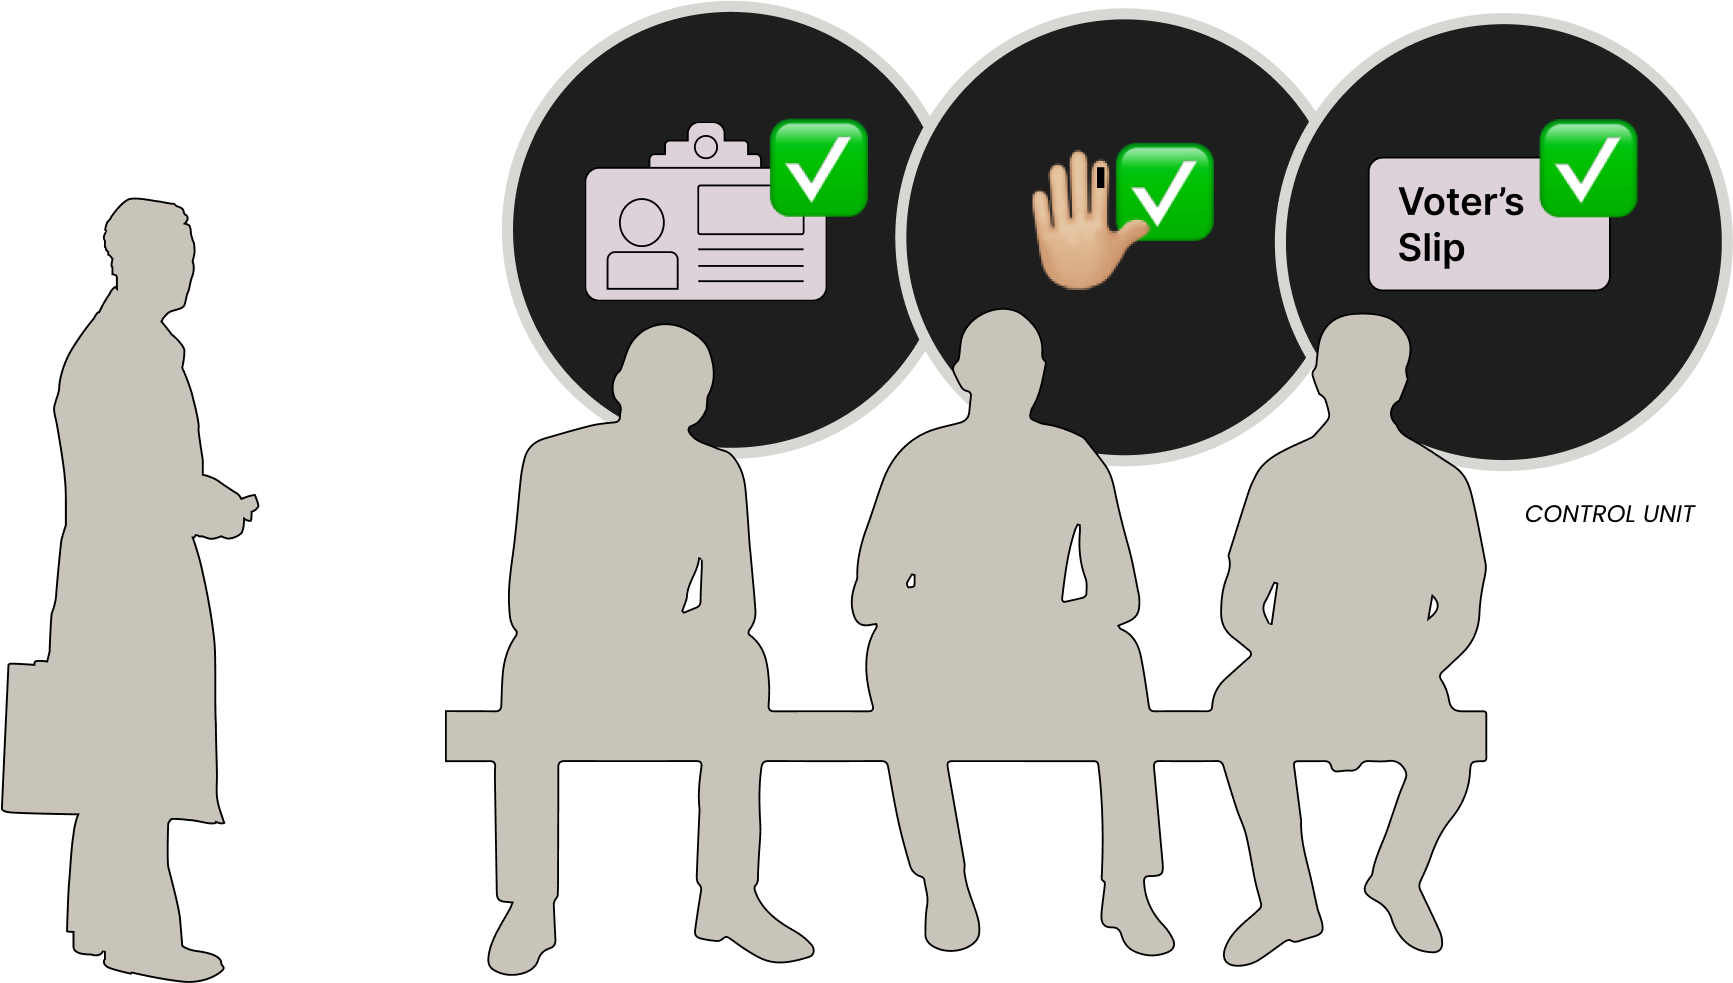
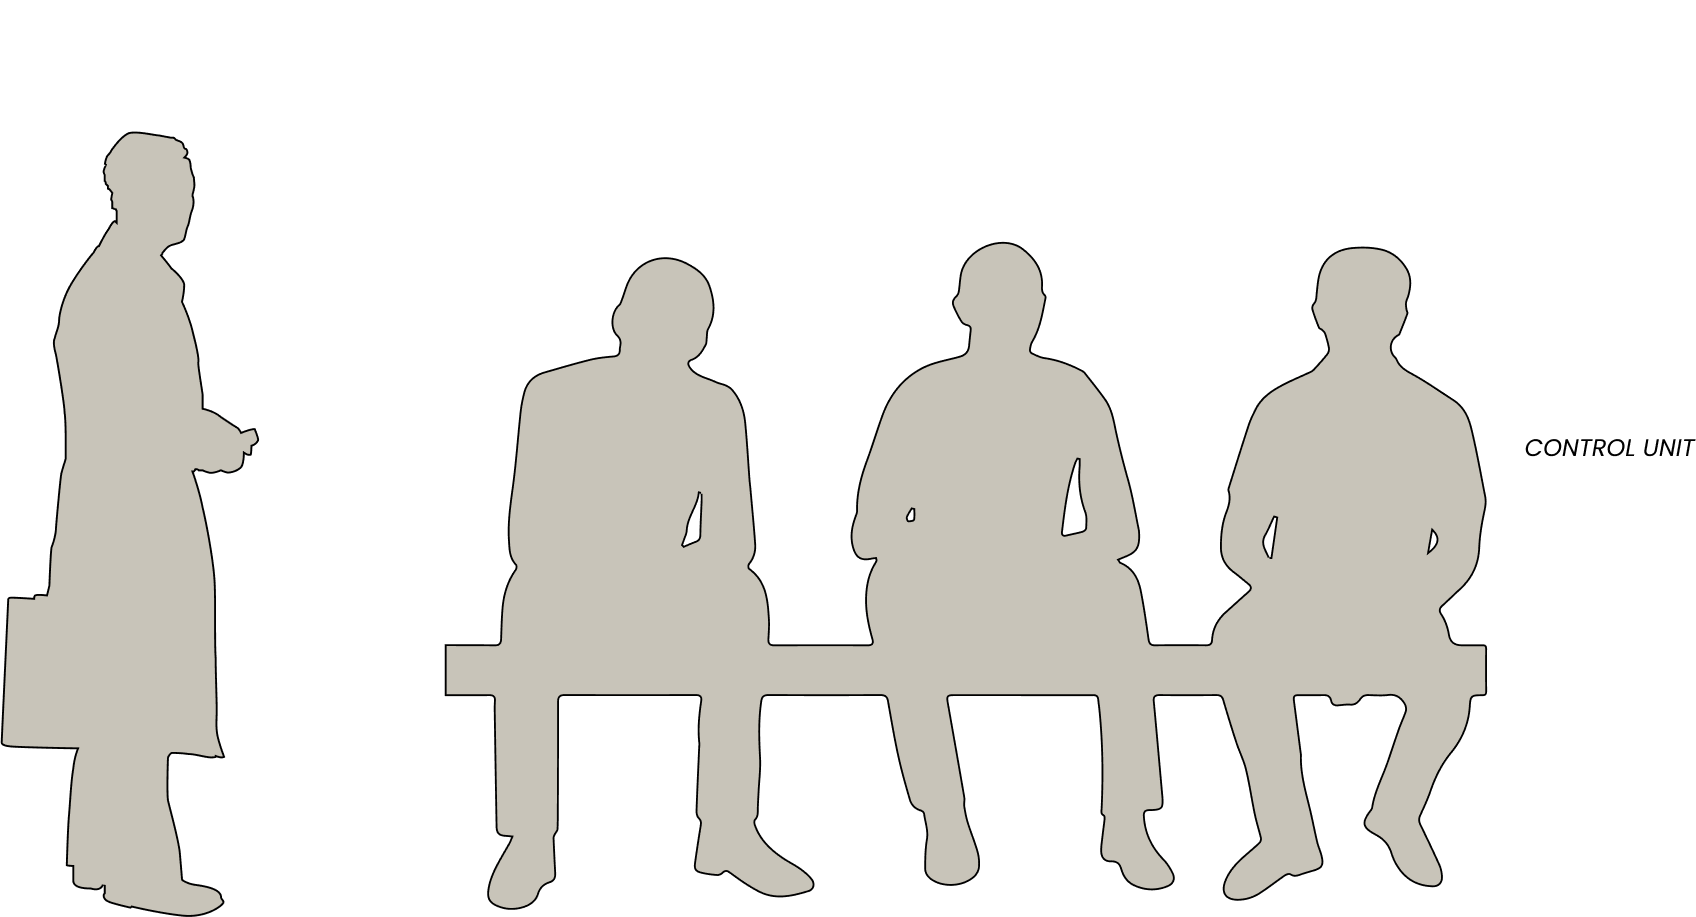
Sub pages

diff --git a/Dayofpoll/style.css b/Dayofpoll/style.css
@@ -10,11 +10,11 @@
   }
   
   h2 {
-    font-size: 2rem;
+    font-size: 1.5rem;
     font-family: 'Inter', sans-serif;
-    font-weight: 600;
-    margin: 0;
-    color: #000000; 
+    font-weight: 400;
+    margin-top: 3%;
+    color: #ffffff; 
   }
   /*body,
   html {
@@ -340,6 +340,7 @@
  /*page 1*/ 
 
  .people{
+  position: relative;
   margin-left: 35%;
   height: 60%;
   margin-top: -261px;
@@ -386,3 +387,102 @@
     margin: 0;
     color: #224;
     }
+
+
+/* Circle animation */
+
+@keyframes circles{
+  100%{
+    transform:scale3d(1,1,1);
+  }
+  
+  75%{
+    transform:scale3d(2.05,2.05,2.05);    
+  }
+  
+  50%{
+    transform:scale3d(0,0,0);
+  }
+  
+  25%{
+    transform:scale3d(1.05,1.05,1.05);    
+  }
+  
+  0%{
+    transform:scale3d(1,1,1);
+  }
+}
+
+*{
+  float:left;
+  padding:0;
+  margin:0;
+  height:auto;
+  overflow:auto;
+}
+
+html, body{
+  background-color:#050505;
+}
+
+.circle-main{
+  width:50vh;
+  height:50vh;
+  border-radius: 50%;
+  display:flex;
+  justify-content:center;
+  text-align:center;
+  flex-direction:column;
+  margin-left:5vh;
+  margin-top:25vh;
+  background-color: #252424;
+  transform:scale3d(1,1,1);
+  animation-iteration-count:1;
+-webkit-box-shadow: 0px 0px 5vh 0px rgba(0,0,0,0.25);
+-moz-box-shadow: 0px 0px 5vh 0px rgba(0,0,0,0.25);
+box-shadow: 0px 0px 5vh 0px rgba(0,0,0,0.25);
+  animation-delay:.5s;
+    animation-name: circles;
+  animation-duration:40s;
+  animation-iteration-count:infinite;
+}
+
+.circle-inner{
+  width:40vh;
+  height:40vh;
+  border-radius:50%;
+  display:flex;
+  justify-content:center;
+  text-align:center;
+  margin-left:5vh;
+  flex-direction:column;
+  background-color: #303030;
+  animation-delay:.5s;
+  transform:scale3d(1,1,1);
+-webkit-box-shadow: 0px 0px 5vh 0px rgba(0,0,0,0.25);
+-moz-box-shadow: 0px 0px 5vh 0px rgba(0,0,0,0.25);
+box-shadow: 0px 0px 5vh 0px rgba(0,0,0,0.25);
+    animation-name: circles;
+  animation-duration:40s;
+  animation-iteration-count:1;
+}
+
+.circle-middle{
+  width:30vh;
+  height:30vh;
+  border-radius:50%;
+  display:flex;
+  justify-content:center;
+  text-align:center;
+  flex-direction:column;
+  margin-left:5vh;
+  background-color: #393939;
+  animation-duration:.5s;
+  transform:scale3d(1,1,1);
+-webkit-box-shadow: 0px 0px 5vh 0px rgba(0,0,0,0.25);
+-moz-box-shadow: 0px 0px 5vh 0px rgba(0,0,0,0.25);
+box-shadow: 0px 0px 5vh 0px rgba(0,0,0,0.25);
+    animation-name: circles;
+  animation-duration:40s;
+  animation-iteration-count:1;
+}

diff --git a/assets/common.css b/assets/common.css
@@ -79,45 +79,6 @@ p {
   transform: translatey(0px);
 }
 
-/*
-.nav {
-  display: flex;
-  align-items: center;
-  padding: 0.2em 0.5em;
-}
-@media (min-width: 60em) {
-  .nav {
-    padding: 1em 2em;
-  }
-}
-.nav__item {
-  color: #FCF2F0;
-  text-decoration: none;
-  padding: 0.5em;
-  transition: box-shadow 200ms ease-out;
-}
-.nav__item:not(.nav__item--brand-logo) {
-  box-shadow: 0px 0px currentcolor;
-}
-.nav__item:not(.nav__item--brand-logo):hover, .nav__item:not(.nav__item--brand-logo):focus, .nav__item:not(.nav__item--brand-logo):active {
-  box-shadow: 0px 1px currentcolor, 0px 2px currentcolor, 0px 3px currentcolor, 0px 4px currentcolor;
-}
-@media (min-width: 40em) {
-  .nav__item {
-    padding: 0.5em 1em;
-    margin-left: 1.5em;
-  }
-}
-*/
-
-.nav__item--brand-logo {
-  margin-left: 0;
-  margin-right: auto;
-  font-weight: 700;
-  font-size: 1.4rem;
-  color: #FCF2F0;
-}
-
 .hero-section {
   padding: 0.2em 0.5em;
   display: grid;

diff --git a/Dayofpoll/index.html b/Dayofpoll/index.html
@@ -26,7 +26,12 @@
     <p>First polling official will check your name on the voter list and check your <strong>ID proof</strong>
       Second polling official will <strong>ink your finger, give you a slip and take your signature on a register (Form 17A)</strong>
       You will have to <strong>deposit the slip </strong>at the third polling official and show your inked finger and then proceed to the polling booth</p>
-    <p class="card-footer">electronic voting machine</p>
+    <p class="card-footer">electronic voting machine</p></div>
+    <div class="circle-main">
+      <div class="circle-inner">
+        <div class="circle-middle">
+      </div>
+    </div>
   </div>
   <img src="people.png" class="people"> 
 </div>
